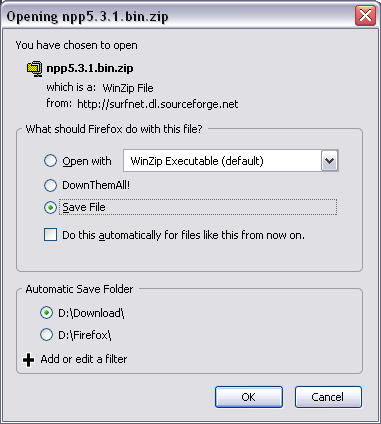
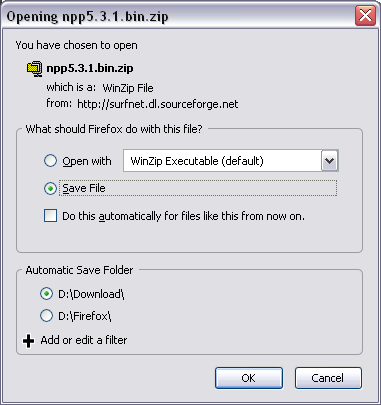
Fix : In the path list drop-down menu, the default save folder's dynamic       renaming wasn't activated. Change : Changed and prepared localization files for Babelzilla submission

diff --git a/content/asf_download.js b/content/asf_download.js
@@ -649,7 +649,8 @@ Copyright (C) 2007-2009 Eric Cassar (Cyan).
 		
 		// Write each path to the menupopup
 		var pathlist = new Array();
-		pathlist[0] = this.loadUnicodeString("extensions.asf.defaultfolder");
+		var defaultfolder = this.loadUnicodeString("extensions.asf.defaultfolder");
+		pathlist[0] =  variable_mode == true? this.createfolder(defaultfolder) : defaultfolder;
 		var j = 0;
 		for (var i = 0; i < nbrfilters; i++)
 		{
